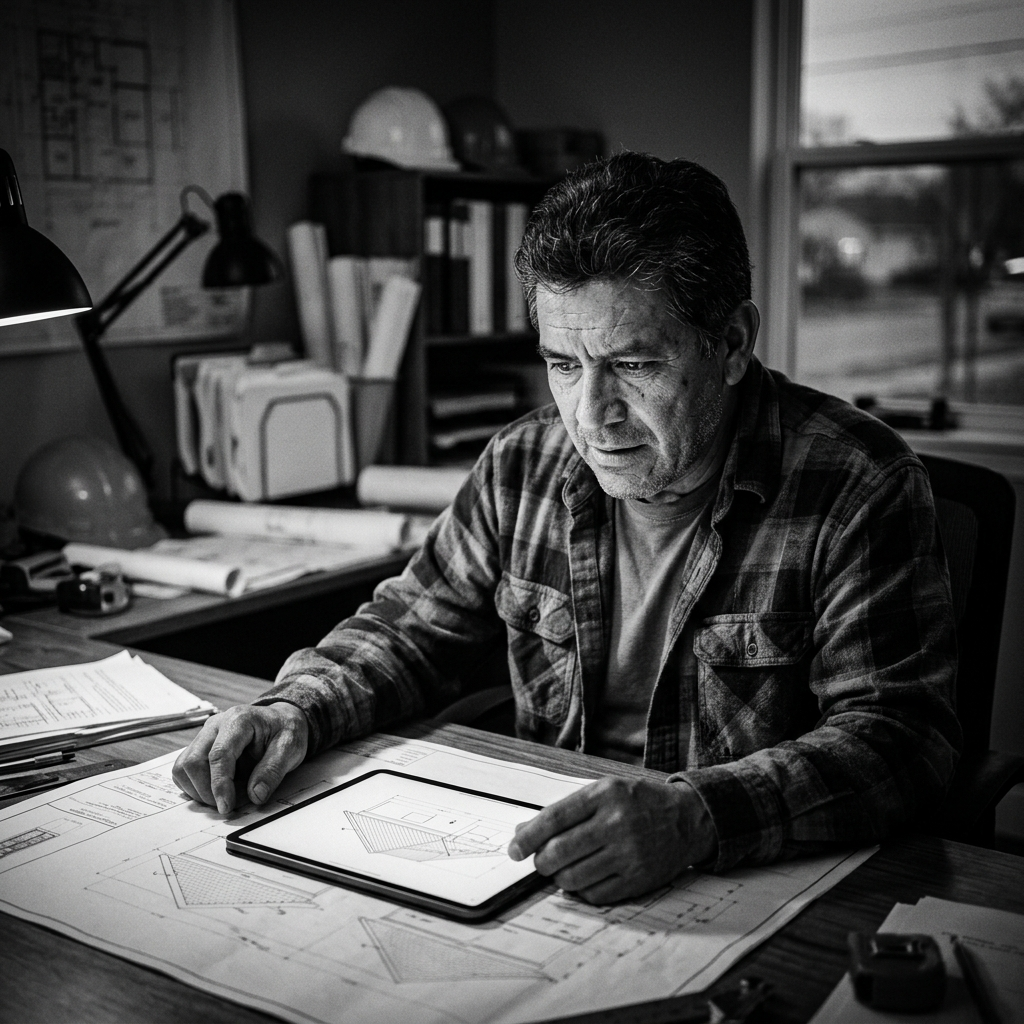
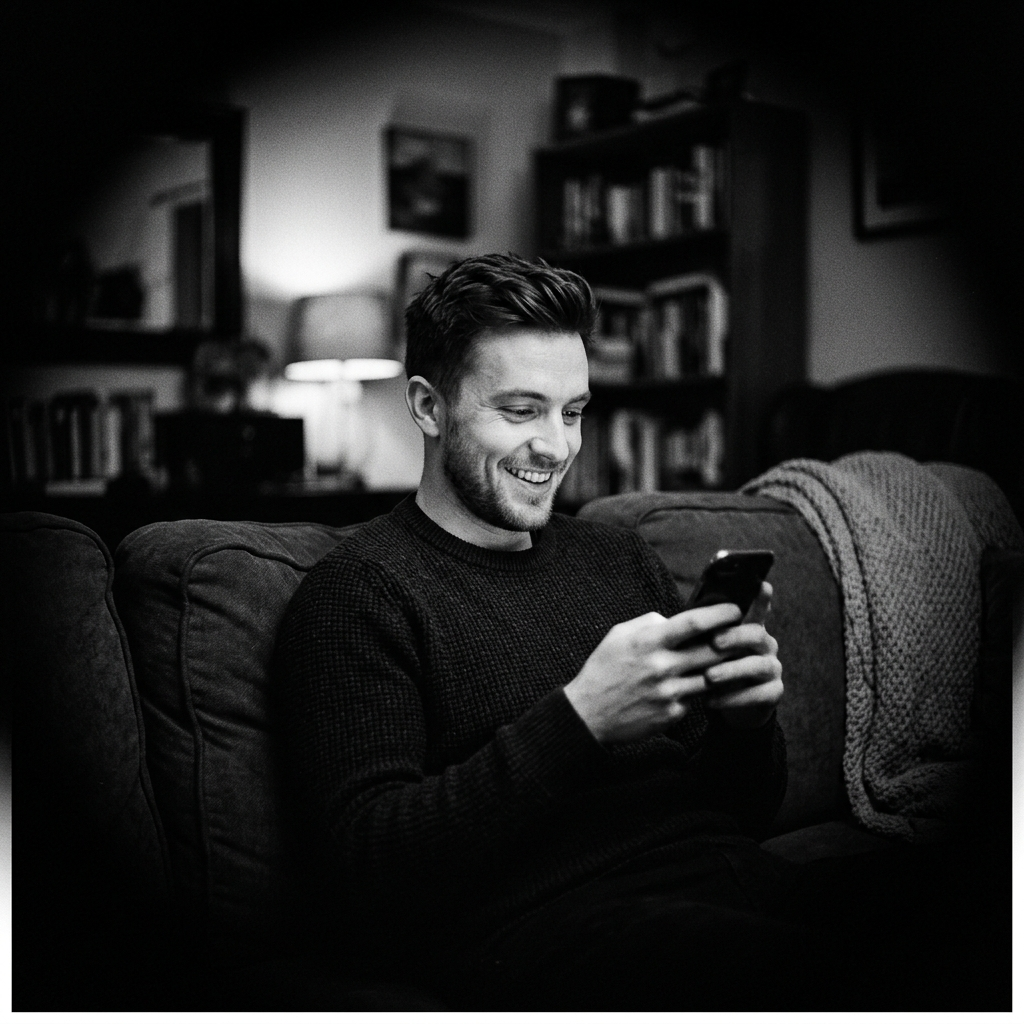
design: restore Batch 1 doctor and HVAC guy, add Batch 2 couch guy and manager, remove Hispanic guy, keeping code clean

diff --git a/task_state.md b/task_state.md
@@ -5,13 +5,14 @@
 - **Ownership Grid Bento:** Restructured the four ownership assets into a 2x2 Bento grid using `bento-card-dark`.
 - **Tactile Fork cards:** Swapped out the basic inline styling for Scale and Walk cards with `bento-card-dark` glassmorphic cards.
 - **Staggered Testimonials bento:** Reorganized the three testimonial cards into a staggered grid of `bento-card-light` elements with Card 2 offset.
-- **Multi-Industry Discovery Carousel:** Implemented a desaturated, vignetted React slideshow next to the 30,000+ metric block, cycling through 4 realistic ICP portraits (Practitioner, Contractor, Roofer, Manager) with a smooth 5s cross-fade transition.
 - **Offer Sandbox Deletion:** Deleted the `/offer` sandbox directory and files.
+- **Realistic, Unlabeled, & Diverse ICP Slideshow Overhaul:** Overhauled the multi-industry Ideal Customer Profile (ICP) slideshow next to the 30,000+ metric block. Generated and integrated 4 new realistic, desaturated, high-contrast, film-grain portraits representing Black, White, and Hispanic business owners in realistic everyday settings (office desk, living room couch, blueprints desk, kitchen counter) using various devices (laptop, tablet, phone) with happy, delighted, intrigued, and concerned facial expressions.
+- **Text Caption Removal:** Removed the absolute text caption overlay container (`div`) from the JSX component in `src/app/page.tsx`, ensuring the imagery serves as clean, raw visual cues without synthetic "AI-generated" styling.
 - **E2E Compilation & Production Deployment:** Verified locally with `npm run build` and successfully deployed to Vercel production at `https://scalesteady.pro`.
 
 ## 2. Files Modified / Created
 - [page.tsx](file:///c:/Users/Tax%20Filing/.gemini/antigravity/scratch/scalesteady-engineers/src/app/page.tsx) (Modified)
-- `public/icp_practitioner.png`, `public/icp_contractor.png`, `public/icp_roofer.png`, `public/icp_manager.png` (Created)
+- `public/icp_practitioner.png`, `public/icp_contractor.png`, `public/icp_roofer.png`, `public/icp_manager.png` (Overwritten with new diverse, realistic everyday scenes)
 - `src/app/offer/` (Deleted)
 
 ## 3. Exact Next Action